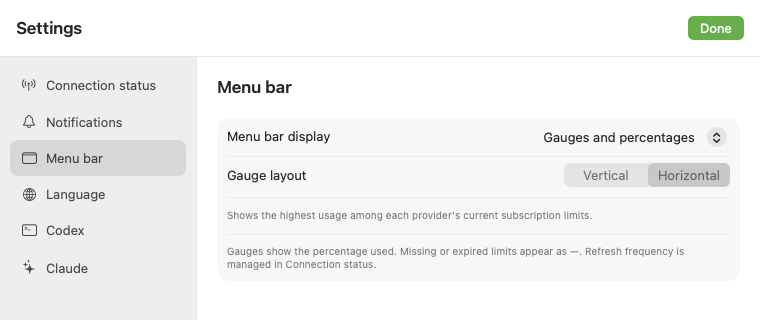
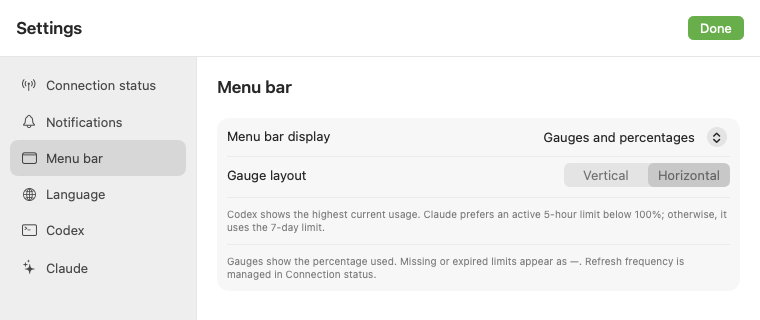
fix: prefer active Claude five-hour menu bar usage

Changed region(s): [[0.3026, 0.75, 0.9079, 0.875], [0.3026, 0.6562, 0.9684, 0.7188]]

diff --git a/Tests/MenuBarGaugeTests.swift b/Tests/MenuBarGaugeTests.swift
@@ -56,6 +56,45 @@ private struct MenuBarGaugeFailure: Error { let message: String }
         try check(MenuBarUsageGauge.claude(weeklyClaude, now: now).usedPercent == 100,
                   "Claude weekly-only and exhausted quotas must remain visible")
 
+        func claudeGauge(_ fiveHour: ClaudeRateLimitSnapshot.Window?,
+                         _ sevenDay: ClaudeRateLimitSnapshot.Window?, at date: Date) -> MenuBarUsageGauge {
+            let snapshot = ClaudeRateLimitSnapshot(receivedAt: now.timeIntervalSince1970,
+                valuesChangedAt: now.timeIntervalSince1970, fiveHour: fiveHour, sevenDay: sevenDay)
+            return .claude(snapshot, now: date)
+        }
+        let weekly = ClaudeRateLimitSnapshot.Window(usedPercent: 80,
+            resetsAt: future.addingTimeInterval(60).timeIntervalSince1970)
+        for percent in [0.0, 30, 99.9] {
+            let fiveHour = ClaudeRateLimitSnapshot.Window(usedPercent: percent,
+                resetsAt: future.timeIntervalSince1970)
+            let gauge = claudeGauge(fiveHour, weeklyClaude.sevenDay, at: now)
+            try check(gauge.usedPercent == percent && gauge.limit?.windowDurationMinutes == 300,
+                      "An active Claude 5-hour window below 100% must win even when weekly usage is 100%")
+        }
+        let exhausted = ClaudeRateLimitSnapshot.Window(usedPercent: 100,
+            resetsAt: future.timeIntervalSince1970)
+        let fallback = claudeGauge(exhausted, weekly, at: now)
+        try check(fallback.usedPercent == 80 && fallback.limit?.windowDurationMinutes == 10_080,
+                  "Claude must switch to weekly usage at exactly 100% in its 5-hour window")
+        let active = snapshot.fiveHour!
+        let expiredFallback = claudeGauge(active, weekly, at: future)
+        try check(expiredFallback.usedPercent == 80 && expiredFallback.limit?.windowDurationMinutes == 10_080,
+                  "The 5-hour window must yield to weekly usage at the exact reset boundary")
+        for unavailable in [nil, ClaudeRateLimitSnapshot.Window(usedPercent: .nan,
+                            resetsAt: future.timeIntervalSince1970)] {
+            try check(claudeGauge(unavailable, weekly, at: now).usedPercent == 80,
+                      "Missing or invalid Claude 5-hour data must fall back to weekly usage")
+        }
+        try check(claudeGauge(exhausted, nil, at: now).usedPercent == nil
+                  && claudeGauge(exhausted, snapshot.sevenDay, at: now).usedPercent == nil
+                  && claudeGauge(active, weekly, at: future.addingTimeInterval(60)).usedPercent == nil,
+                  "Without an eligible weekly fallback, exhausted or inactive Claude windows must show unknown")
+        let renewed = ClaudeRateLimitSnapshot.Window(usedPercent: 0,
+            resetsAt: future.addingTimeInterval(300).timeIntervalSince1970)
+        let resumed = claudeGauge(renewed, weekly, at: future)
+        try check(resumed.usedPercent == 0 && resumed.limit?.windowDurationMinutes == 300,
+                  "A newly received active 5-hour window must replace the weekly fallback")
+
         let image = MenuBarGaugeImage.make(gauges: [codex], showsPercent: true)
         let unchanged = MenuBarGaugeImage.make(gauges: [codex], showsPercent: true)
         try check(image === unchanged,

diff --git a/tracken/Utilities/MenuBarUsage.swift b/tracken/Utilities/MenuBarUsage.swift
@@ -56,10 +56,12 @@ nonisolated struct MenuBarUsageGauge: Equatable, Sendable {
             (snapshot?.fiveHour, 300), (snapshot?.sevenDay, 10_080)
         ]
         let limits = windows.compactMap { window, minutes -> CodexRateLimit? in
-            guard let window, window.isValid else { return nil }
+            guard let window, window.isValid, !window.hasExpired(at: now) else { return nil }
+            if minutes == 300 && window.usedPercent >= 100 { return nil }
             return CodexRateLimit(usedPercent: window.usedPercent, windowDurationMinutes: minutes,
                                   resetsAt: Date(timeIntervalSince1970: window.resetsAt))
         }
-        return Self(provider: .anthropic, limits: limits, now: now)
+        // Prefer an active 5-hour window below 100%; otherwise use the weekly window.
+        return Self(provider: .anthropic, limits: Array(limits.prefix(1)), now: now)
     }
 }

diff --git a/tracken/Features/Settings/SettingsView.swift b/tracken/Features/Settings/SettingsView.swift
@@ -112,7 +112,7 @@ struct SettingsView: View {
             }
             .pickerStyle(.segmented)
             .disabled(settings.menuBarDisplayStyle == .iconOnly)
-            Text("Shows the highest usage among each provider's current subscription limits.")
+            Text("Codex shows the highest current usage. Claude prefers an active 5-hour limit below 100%; otherwise, it uses the 7-day limit.")
                 .font(.caption)
                 .foregroundStyle(.secondary)
             Text("Gauges show the percentage used. Missing or expired limits appear as —. Refresh frequency is managed in Connection status.")

diff --git a/tracken/Features/MenuBar/MenuBarUsageLabel.swift b/tracken/Features/MenuBar/MenuBarUsageLabel.swift
@@ -48,7 +48,9 @@ struct MenuBarUsageLabel: View {
             return L10n.format("%@: %@ used (%@)", gauge.provider.shortName,
                                Format.percent(limit.usedPercent), window)
         }
-        return (["tracken"] + rows + [L10n.text("Shows the highest usage among each provider's current subscription limits.")])
+        return (["tracken"] + rows + [
+            L10n.text("Codex shows the highest current usage. Claude prefers an active 5-hour limit below 100%; otherwise, it uses the 7-day limit.")
+        ])
             .joined(separator: "\n")
     }
 }

diff --git a/README.en.md b/README.en.md
@@ -257,7 +257,14 @@ Choose **Settings → Menu bar → Gauge layout → Vertical / Horizontal** to a
 
 The horizontal layout uses larger text and thicker bars; the vertical layout fits both rows into less space. Percentages use fixed-width columns so changing values do not shift the layout. The monochrome icon and gauges adapt to light and dark menu bars.
 
-Each gauge shows the **highest usage percentage** among that provider's current short-term and weekly limits. Hover to see the selected limit window. Missing or expired limits appear as `—`, distinct from actual 0% usage. Values follow activity-aware automatic or manual refresh. Opening the menu rechecks limits when the previous attempt was over a minute ago; expiry is checked every 30 seconds.
+Each provider selects the displayed window as follows:
+
+- **Codex:** Shows the highest usage percentage among its valid, unexpired short-term and weekly limits.
+- **Claude:** **Prefers the 5-hour usage when that window has been received, is valid and unexpired, and is below 100%.** It keeps showing the 5-hour window even if weekly usage is higher. It **switches to 7-day usage when the 5-hour window reaches 100%, is missing, or has expired**. A new eligible 5-hour window switches the gauge back automatically. A valid 0% value also counts as active.
+
+For example, with 5-hour usage at 30% and 7-day usage at 80%, Claude's gauge shows 30%. Once 5-hour usage reaches 100%, it switches to the weekly 80%. If no eligible window is available, it shows `—`; this also applies when 5-hour usage is 100% and the weekly window is missing or expired.
+
+Hover to see the selected limit window. This selection applies to the top menu bar gauge; the popover and Claude detail view display both windows separately. Values follow activity-aware automatic or manual refresh. Opening the menu rechecks limits when the previous attempt was over a minute ago; expiry is checked every 30 seconds.
 
 Click the tracken icon or gauges in the macOS menu bar to open the popover:
 
